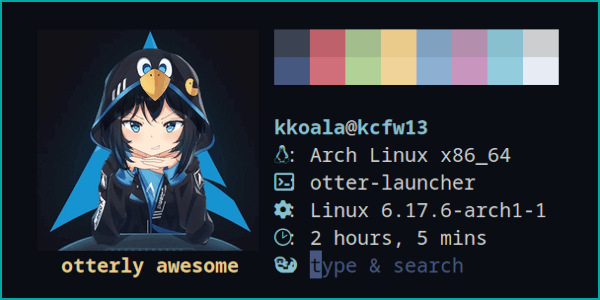
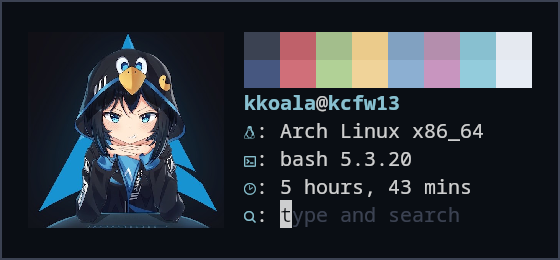
update styling examples

Changed region(s): [[0.0607, 0.0923, 0.9107, 0.9538], [0.0, 0.0, 1.0, 1.0]]

diff --git a/README.md b/README.md
@@ -313,40 +313,7 @@ cmd = "swaymsg [app_id=otter-launcher] resize set width 600 px height 300 px; pu
 
 ## Styling
 
-### Fastfetch
-
-<div align="center">
-
-![fastfetch](./assets/fastfetch.png)
-
-</div>
-
-Using fastfetch in interface.header_cmd works without extra setting. However, add '--pipe false' to fastfetch in overlay.overlay_cmd to prevent its pipe mode from stripping colors.
-
-``` toml
-[interface]
-header_cmd = """
-fastfetch \
-    --structure break:colors:break:title:os:shell:kernel:uptime \
-    --logo-print-remaining false \
-    --logo-height 8 \
-    --logo-padding-left 3 \
-    --kitty $HOME/.config/otter-launcher/images/images_squ/archlinux_chan.jpg
-"""
-header = "   \u001B[33;1m  otterly awesome \u001B[0m  \u001B[36;1m:\u001B[0;1m "
-place_holder = "type & search"
-suggestion_mode = "hint"
-prefix_color = "\u001B[33m"
-description_color = "\u001B[39m"
-place_holder_color = "\u001B[30m"
-hint_color = "\u001B[90m"
-```
-
-### Image Protocol
-
-Use chafa in header_cmd to render the image.
-
-<div align="center">
+### Banner
 
 ![Foot Config](./assets/foot.png)
 
@@ -355,27 +322,103 @@ Use chafa in header_cmd to render the image.
 </div>
 
 ``` toml
+[general]
+height = 14
+
 [interface]
-header_cmd = "chafa --fit-width $HOME/.config/otter-launcher/images_other/waterways_and_otterways.jpg"
-header_cmd_trimmed_lines = 1
-header = """  \u001B[34;1m   \u001B[0m $USER@$(echo $HOSTNAME)          \u001B[31m\u001B[0m $(cat /proc/loadavg | cut -d ' ' -f 1)  \u001B[33m\u001B[0m $(free -h | awk 'FNR == 2 {print $3}')\n    \u001B[34;1m \u001B[0;1m """
-list_prefix = "       "
-selection_prefix = "     \u001B[31;1m> "
-place_holder = "type and search..."
-default_module_message = """
-       \u001B[35msearch\u001B[0m on the internet"""
-suggestion_mode = "list"
-suggestion_lines = 3
-prefix_padding = 3
-prefix_color = "\u001B[33m"
-description_color = "\u001B[39m"
-place_holder_color = "\u001B[90m"
-hint_color = "\u001B[90m"
+# Bash scripting widgets in $()
+header = """
+$(
+load=$(awk 'NR == 1 {print $1}' /proc/loadavg)
+mem=$(free -h | awk 'NR == 2 {print $3}' | sed 's/Gi/0/')
+left="$USER@$HOSTNAME"
+left="  > $left"
+right="> $load  > $mem"
+gap=$(( COLUMNS - ${#left} - ${#right} ))
+(( gap < 0 )) && gap=0
+printf '\x1b[34;1m   \x1b[0m%s@%s%*s\x1b[31;1m \x1b[0m%s  \x1b[33;1m \x1b[0m%s' "$USER" "$HOSTNAME" "$gap" '' "$load" "$mem")"""
+prompt_sign = "    "
+padding = [0, 1, 0, 1]
+separator_label = "   otter "
+list_prefix = "   "
+selection_prefix = " ▌ "
+inverse_selection = false
+suggestion_position = "bottom"
+indicator_bare = "$ "
+indicator_args = "^ "
+prefix_padding = 4
+
+[image]
+format = "kitty"
+path = "$HOME/.config/otter-launcher/images/images_other/waterways_and_otterways.jpg"
+width = 6
+position = "top"
 ```
 
-### Image to the Left
+### Two-liner
 
-Render chafa image at the left, moving the inteface to the right.
+<div align="center">
+
+![Two-liner Config](./assets/two_liner.png)
+
+</div>
+
+```toml
+[general]
+height = 2
+
+[interface]
+header = """
+$(
+load=$(awk 'NR == 1 {print $1}' /proc/loadavg)
+mem=$(free -h | awk 'NR == 2 {print $3}' | sed 's/Gi/0 /')
+
+left="$USER@$HOSTNAME"
+left="  > $left"
+right="> $load  > $mem"
+
+gap=$(( COLUMNS - ${#left} - ${#right} ))
+(( gap < 0 )) && gap=0
+
+printf '\x1b[34;1m   \x1b[0m%s@%s%*s\x1b[31;1m \x1b[0m%s  \x1b[33;1m \x1b[0m%s' "$USER" "$HOSTNAME" "$gap" '' "$load" "$mem")"""
+prompt_sign = "    "
+suggestion_mode = "hint"
+```
+
+### Fastfetch
+
+<div align="center">
+
+![fastfetch](./assets/fastfetch.png)
+
+</div>
+
+Images should be rendered by otter-launcher, and "--pipe false" should be attached to fastfetch itself.
+
+``` toml
+[general]
+height = 9
+
+[interface]
+# Strip fastfetch of the image and use the --pipe flag
+header = "$( fastfetch --structure colors:title:os:shell:uptime  --pipe false  --logo none)"
+prompt_sign = "\x1b[0m: "
+prompt_sign_color = "cyan"
+padding = [1, 2, 1, 0]
+suggestion_mode = "hint"
+suggestion_position = "top"
+indicator_bare = "$ "
+indicator_args = "^ "
+
+# Let otter handles the image
+[image]
+format = "kitty"
+path = "$HOME/.config/otter-launcher/images/images_squ/archlinux_chan.jpg"
+width = 20
+padding = [1, 1, 1, 2]
+```
+
+### Fzf-like
 
 <div align="center">
 
@@ -384,40 +427,41 @@ Render chafa image at the left, moving the inteface to the right.
 </div>
 
 ```toml
-[overlay]
-# render image in overlay layer using chafa
-overlay_cmd = "chafa -s x7 $HOME/.config/otter-launcher/images_rec.image"
+[general]
+height = 7
 
 [interface]
-header = """
-\u001B[34;1m> \u001B[0;1m"""
-place_holder = "type and search"
+padding = [1, 1, 1, 1]
+separator_label = "  otter "
 list_prefix = "  "
-selection_prefix = "\u001B[31;40;1m▌ "
-suggestion_mode = "list"
-suggestion_lines = 3
-separator = """
-$( \
-    text="  otter"; \
-    printf "\u001B[0;90m$text \
-    $(printf -v line '%*s' \"$(( COLUMNS - $(printf "$text" | wc -m) - 3 ))\" ''; printf '%s' \"${line// /─}\")" \
-)"""
-prefix_color = "\u001B[33m"
-description_color = "\u001B[39m"
-place_holder_color = "\u001B[0;30m"
-hint_color = "\u001B[90m"
-default_module_message = "\u001B[33msearch\u001B[0m the internet"
-prefix_padding = 3
-cursor_shape = 5
+selection_prefix = "▌ "
+inverse_selection = true
 
-# move the interface
-move_interface_right = 13
-move_interface_down = 1
+[image]
+format = "kitty"
+path = "$HOME/.config/otter-launcher/images_rec.image"
+width = 12
+```
+
+### One-liner
+
+<div align="center">
+
+![One-liner Config](./assets/one_liner.png)
+
+</div>
+
+```toml
+[general]
+height = 1
+
+[interface]
+prompt_sign = " > "
+suggestion_mode = "hint"
+placeholder = ""
 ```
 
 ### Image to the Right
-
-This config renders a [prinny](https://github.com/kuokuo123/otter-launcher/tree/main/assets/prinny-raisehand.png) using overlay_cmd, and then move the overlay right.
 
 <div align="center">
 
@@ -426,38 +470,34 @@ This config renders a [prinny](https://github.com/kuokuo123/otter-launcher/tree/
 </div>
 
 ```toml
-[overlay]
-# render image in overlay layer using chafa
-overlay_cmd = "chafa -s x10 $HOME/.config/otter-launcher/image.png"
-overlay_trimmed_lines = 0
-
-#move overlay rightwards
-move_overlay_right = 32
+[general]
+height = 10
 
 [interface]
-# move the interface
-move_interface_down = 1
-
-# customized header & list prefix
+padding = [1, 2, 1, 2]
 header = """
-    ┌ \u001B[1;34m  $USER@$(echo $HOSTNAME) \u001B[0m───┐
-    │ \u001B[90m  \u001B[31m  \u001B[32m  \u001B[33m  \u001B[34m  \u001B[35m  \u001B[36m\u001B[0m │
-    └ \u001B[36m \u001B[1;36m system\u001B[0m archlinux ┘
-    ┌ \u001B[33m \u001B[1;36m window \u001B[0m     $XDG_CURRENT_DESKTOP ┐
-    │ \u001B[31m \u001B[1;36m loads\u001B[0m       $(cat /proc/loadavg | cut -d ' ' -f 1) │
-    │ \u001B[32m \u001B[1;36m memory\u001B[0m     $(free -h | awk 'FNR == 2 {print $3}') │
-    │ \u001B[90m\u001B[0m  """
-list_prefix = "    └ \u001B[34m  "
-selection_prefix = "    └ \u001B[31m  "
-default_module_message = "\u001B[33msearch\u001B[0m the internet"
-
-place_holder = "type & search"
+ ┌ \u001B[1;34m  $USER@$(echo $HOSTNAME) \u001B[0m───┐
+ │ \u001B[90m  \u001B[31m  \u001B[32m  \u001B[33m  \u001B[34m  \u001B[35m  \u001B[36m\u001B[0m │
+ └ \u001B[36m \u001B[1;36m system\u001B[0m archlinux ┘
+ ┌ \u001B[33m \u001B[1;36m window \u001B[0m     $XDG_CURRENT_DESKTOP ┐
+ │ \u001B[31m \u001B[1;36m loads\u001B[0m       $(cat /proc/loadavg | cut -d ' ' -f 1) │
+ │ \u001B[32m \u001B[1;36m memory\u001B[0m     $(free -h | awk 'FNR == 2 {print $3}') │"""
+prompt_sign = " └ \u001B[90m \u001B[0m "
+prompt_sign_color = "reset"
 suggestion_mode = "list"
-suggestion_lines = 1
-prefix_color = "\u001B[33m"
-description_color = "\u001B[39m"
-place_holder_color = "\u001B[90m"
-hint_color = "\u001B[90m"
+suggestion_position = "bottom"
+inverse_selection = false
+separator = false
+prefix_padding = 3
+list_prefix = "  "
+selection_prefix = "  "
+
+[image]
+padding = [1, 2, 0, 0]
+format = "kitty"
+path = "$HOME/.config/otter-launcher/images/images_rec/prinny.png"
+width = 19
+position = "right"
 ```
 
 ### Otter Shocked
@@ -468,78 +508,32 @@ hint_color = "\u001B[90m"
 
 </div>
 
-This custom script use ansi control codes to print texts to the right of a sixel [shocked otter](https://github.com/kuokuo123/otter-launcher/tree/main/assets/otter_shocked.webp).
-
 ```toml
-# delay startup to wait for sixel execution
 [general]
-delay_startup = 10
+height = 10
 
 [interface]
-header_cmd = """
-
-# The path of the image to be displayed
-image_file="$HOME/.config/otter-launcher/images/images_other/otter_shocked.webp"
-
-# Set the image's width and height, which decide the position of printed texts
-image_width=17
-image_height=6
-
-# pad the image with spaces
-image_padding_top=1
-image_padding_left=2
-
-# The text to be printed should be written between the two "EOF"s
-printed_lines=$(cat << EOF
-\u001B[90m
-░█▀█░▀█▀░▀█▀░█▀▀░█▀█░░░░░ ░ ░
+header = """
+\x1b[90m░█▀█░▀█▀░▀█▀░█▀▀░█▀█░░░░░ ░ ░
 ░█░█░░█░░░█░░█▀▀░█▀▄░▀▀▀░ ░ ░
 ░▀▀▀░░▀░░░▀░░▀▀▀░▀░▀░░░░░ ░ ░
 ░█░░░█▀█░█░█░█▀█░█▀▀░█░█░ ░ ░
 ░█░░░█▀█░█░█░█░█░█░░░█▀█░ ░ ░
 ░▀▀▀░▀░▀░▀▀▀░▀░▀░▀▀▀░▀░▀░ ░ ░
-EOF
-)
-
-# main function
-function chafa-text() {
-  # pad printed_lines with empty lines to the height of the image
-  line_count=$(echo "$printed_lines" | wc -l)
-  additional_lines=$((image_height - line_count))
-  for (( i=0; i<additional_lines; i++ )); do
-    printed_lines+="\n"
-  done
-  # Render the image with chafa at the padded position
-  if (( $image_padding_top > 0 )); then
-    printf '\n%.0s' $(seq 1 $image_padding_top)
-  fi
-  chafa --size $((image_width))x$((image_height)) "$image_file" | while IFS= read -r line; do
-  printf "\u001B[$((image_padding_left))G"
-    printf '\u001B[%dG%s\n' "$((image_padding_left + 1))" "$line"
-  done
-  # Move cursor to the starting line of the image
-  printf "\u001B[$((image_height + 1))A"
-  # Move each of printed_lines' start position to image_width + 1
-  echo -e "$printed_lines" | while IFS= read -r line; do
-    printf '\u001B[%dG%s\n' "$((image_width))" "$line"
-  done
-}
-
-# run the function
-chafa-text
+\x1b[31;1m \x1b[0m$USER@$HOSTNAME      \x1b[31;1m \x1b[0m$(free -h | awk 'NR == 2 {print $3}' | sed 's/i//')
 """
-
-header = """
-  \u001B[31;1m \u001B[0m $USER@$(echo $HOSTNAME)            \u001B[31m\u001B[0m $(mpstat | awk 'FNR ==4 {print $4}')%  \u001B[33m\u001B[0m $(free -h | awk 'FNR == 2 {print $3}' | sed 's/i//')
-  \u001B[31;1m>>\u001B[0;1m """
-indicator_with_arg_module = "$ "
-indicator_no_arg_module = "^ "
-place_holder = "type something..."
+prompt_sign = " "
+prompt_sign_color = "yellow"
+padding = [1, 2, 1, 0]
 suggestion_mode = "hint"
-prefix_color = "\u001B[33m"
-description_color = "\u001B[39m"
-place_holder_color = "\u001B[30m"
-hint_color = "\u001B[90m"
+suggestion_position = "top"
+prefix_padding = 3
+
+[image]
+format = "kitty"
+path = "$HOME/.config/otter-launcher/images/images_squ/otter_shocked.webp"
+width = 22
+padding = [1, 1, 1, 2]
 ```
 
 ## Sponsorship
